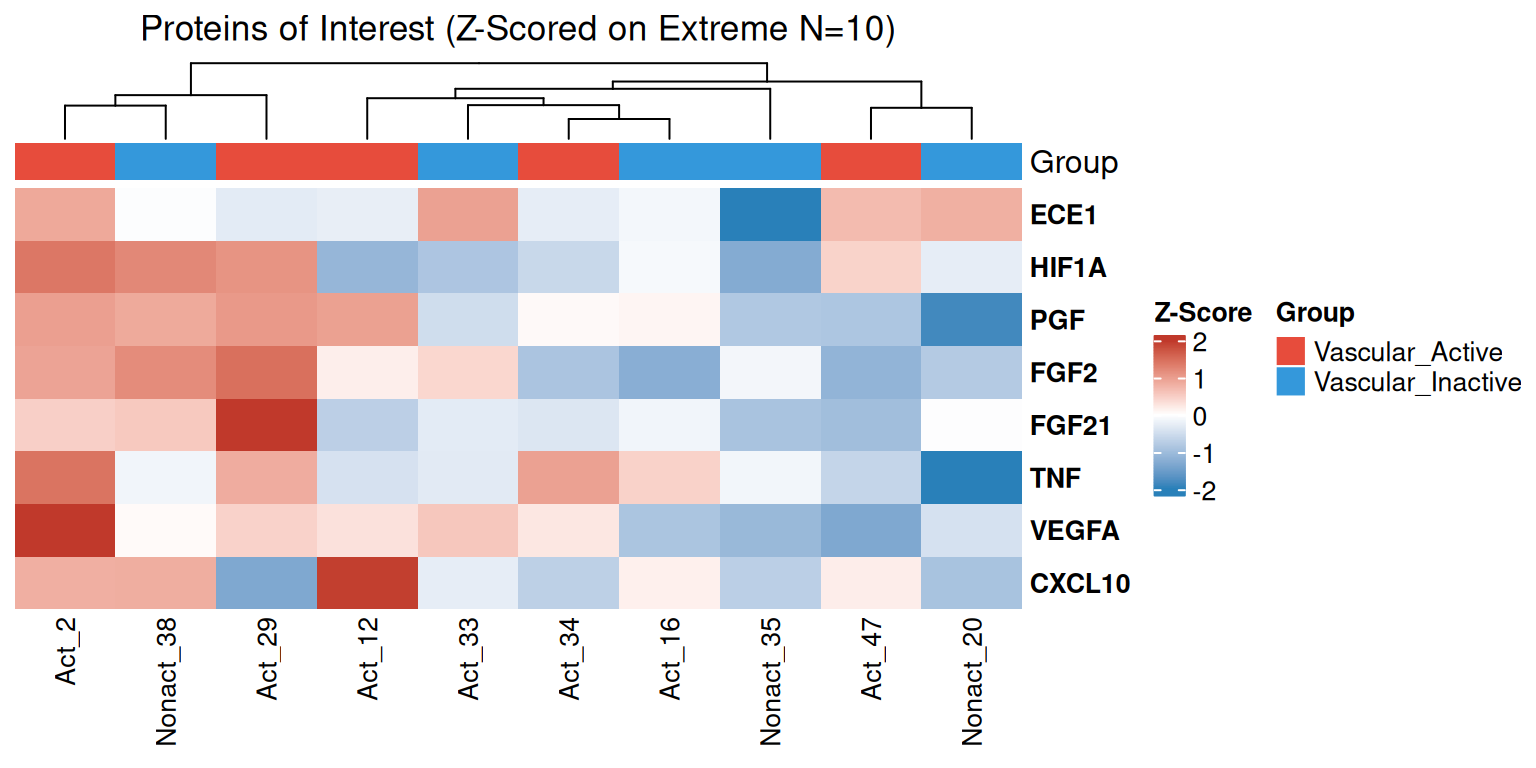
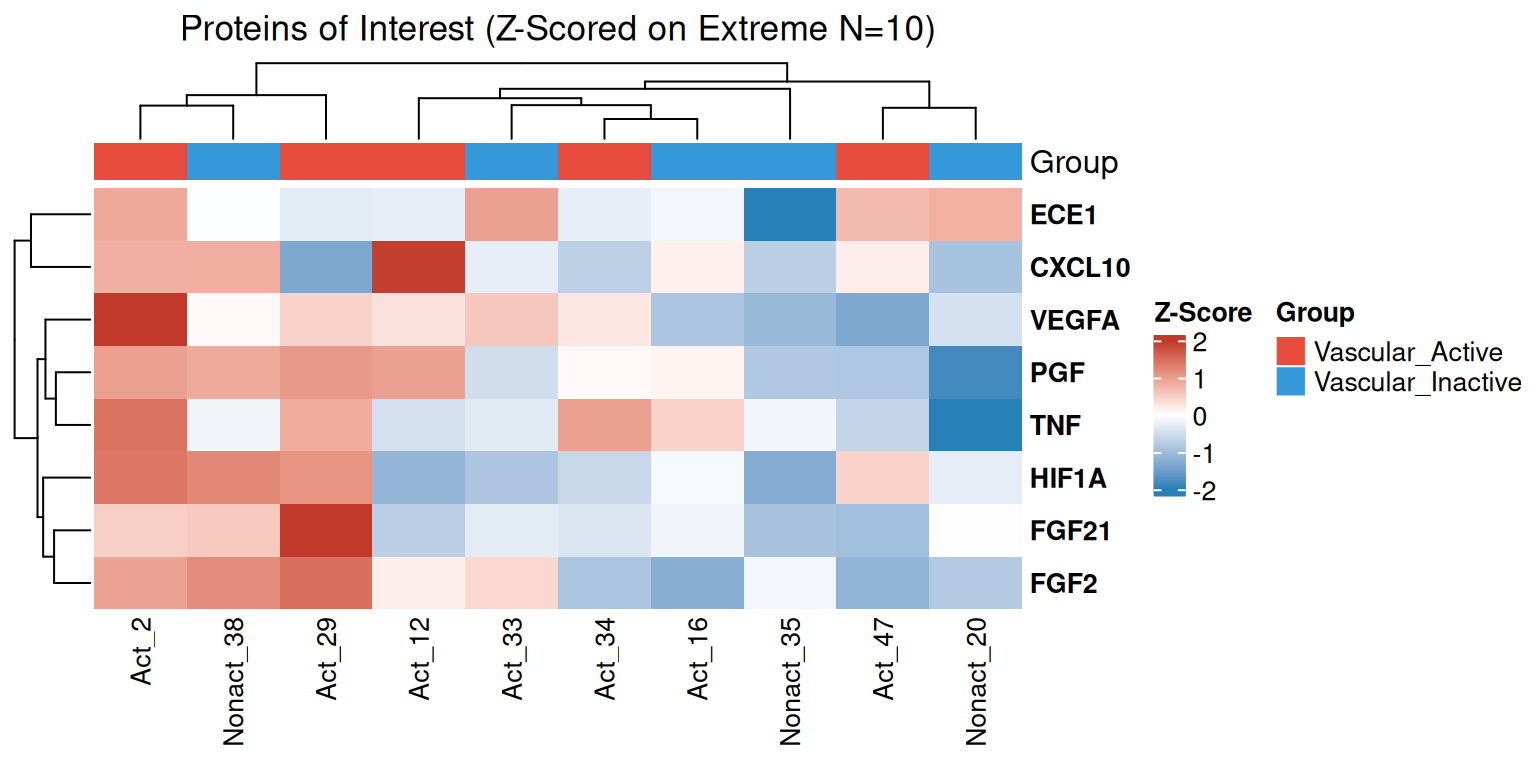
Build site.

diff --git a/docs/z01_sideproject_ellen.html b/docs/z01_sideproject_ellen.html
@@ -375,6 +375,18 @@ div.tocify {
     </li>
   </ul>
 </li>
+<li class="dropdown">
+  <a href="#" class="dropdown-toggle" data-toggle="dropdown" role="button" data-bs-toggle="dropdown" aria-expanded="false">
+    Side Projects
+     
+    <span class="caret"></span>
+  </a>
+  <ul class="dropdown-menu" role="menu">
+    <li>
+      <a href="z01_sideproject_ellen.html">Vascular</a>
+    </li>
+  </ul>
+</li>
 <li>
   <a href="about.html">About</a>
 </li>
@@ -412,7 +424,7 @@ Phenotypes</h1>
 <h4 class="author">alexander-gysin (<a
 href="mailto:alexander.gysin@usz.ch"
 class="email">alexander.gysin@usz.ch</a>)</h4>
-<h4 class="date">28 April, 2026</h4>
+<h4 class="date">29 April, 2026</h4>
 
 </div>
 
@@ -441,7 +453,7 @@ class="glyphicon glyphicon-ok text-success" aria-hidden="true"></span>
 <div class="tab-content">
 <div id="summary" class="tab-pane fade in active">
 <p>
-<strong>Last updated:</strong> 2026-04-28
+<strong>Last updated:</strong> 2026-04-29
 </p>
 <p>
 <strong>Checks:</strong> <span
@@ -572,15 +584,15 @@ project makes it easier to run your code on other machines.</p>
 <div class="panel panel-default">
 <div class="panel-heading">
 <p class="panel-title">
-<a data-toggle="collapse" data-parent="#workflowr-checks" href="#strongRepositoryversionstrongahrefhttpsgithubcomalexandergysinSScUSZtreea90e66022de643c06bfe1c5be86aa3d29a7c1c30targetblanka90e660a">
+<a data-toggle="collapse" data-parent="#workflowr-checks" href="#strongRepositoryversionstrongahrefhttpsgithubcomalexandergysinSScUSZtreee9897d3a7ebe4f6239bfce87e57a5a472ff42cf5targetblanke9897d3a">
 <span class="glyphicon glyphicon-ok text-success"
 aria-hidden="true"></span> <strong>Repository version:</strong>
-<a href="https://github.com/alexander-gysin/SSc-USZ/tree/a90e66022de643c06bfe1c5be86aa3d29a7c1c30" target="_blank">a90e660</a>
+<a href="https://github.com/alexander-gysin/SSc-USZ/tree/e9897d3a7ebe4f6239bfce87e57a5a472ff42cf5" target="_blank">e9897d3</a>
 </a>
 </p>
 </div>
 <div
[2 lines of base64/hex data omitted]
 class="panel-collapse collapse">
 <div class="panel-body">
 <p>
@@ -590,7 +602,7 @@ reproducibility.
 </p>
 <p>
 The results in this page were generated with repository version
-<a href="https://github.com/alexander-gysin/SSc-USZ/tree/a90e66022de643c06bfe1c5be86aa3d29a7c1c30" target="_blank">a90e660</a>.
+<a href="https://github.com/alexander-gysin/SSc-USZ/tree/e9897d3a7ebe4f6239bfce87e57a5a472ff42cf5" target="_blank">e9897d3</a>.
 See the <em>Past versions</em> tab to see a history of the changes made
 to the R Markdown and HTML files.
 </p>
@@ -625,19 +637,6 @@ Untracked files:
     Untracked:  analysis/03d_proteomics_correlations.Rmd
     Untracked:  code/randomizer.R
     Untracked:  core
-
-Unstaged changes:
-    Deleted:    analysis/01_data_import_and_qc.Rmd
-    Modified:   analysis/02_cohort_characterization.Rmd
-    Modified:   analysis/03a_proteomics_variance.Rmd
-    Modified:   analysis/03b_proteomics_differential.Rmd
-    Deleted:    analysis/03c_proteomics_predictive.Rmd
-    Modified:   analysis/_site.yml
-    Modified:   analysis/index.Rmd
-    Modified:   analysis/style.css
-    Modified:   code/00_config.R
-    Modified:   code/00_omics_engines.R
-    Modified:   renv.lock
 
 </code></pre>
 <p>
@@ -682,6 +681,40 @@ Message
 </tr>
 </thead>
 <tbody>
+<tr>
+<td>
+Rmd
+</td>
+<td>
+<a href="https://github.com/alexander-gysin/SSc-USZ/blob/e9897d3a7ebe4f6239bfce87e57a5a472ff42cf5/analysis/z01_sideproject_ellen.Rmd" target="_blank">e9897d3</a>
+</td>
+<td>
+alexander-gysin
+</td>
+<td>
+2026-04-29
+</td>
+<td>
+wflow_git_commit(all = TRUE)
+</td>
+</tr>
+<tr>
+<td>
+html
+</td>
+<td>
+<a href="https://rawcdn.githack.com/alexander-gysin/SSc-USZ/2b628571c9daff4dab460b238edc13b90df3d876/docs/z01_sideproject_ellen.html" target="_blank">2b62857</a>
+</td>
+<td>
+alexander-gysin
+</td>
+<td>
+2026-04-28
+</td>
+<td>
+Build site.
+</td>
+</tr>
 <tr>
 <td>
 Rmd
@@ -1215,12 +1248,7 @@ No visible pattern
 <strong>Analysis Decisions:</strong>
 <ul>
 <li>
-Filtered the 10-patient matrix for the predefined list of
-human-translated proteins of interest.
-</li>
-<li>
-Applied Z-scoring to highlight relative abundance shifts strictly
-between the extreme phenotypes.
+Applied Z-scoring to highlight relative abundance shifts.
 </li>
 </ul>
 </div>
@@ -1264,8 +1292,8 @@ in the Olink matrix and will be excluded: THBS1</b></p>
     row_names_gp = gpar(fontsize = 10, fontface = &quot;bold&quot;),
     column_names_gp = gpar(fontsize = 10),
     cluster_columns = TRUE,
-    cluster_rows = FALSE, # Keep user&#39;s predefined list order
-    show_row_dend = FALSE
+    cluster_rows = TRUE, 
+    show_row_dend = TRUE
   )
   
   draw(ht3)
